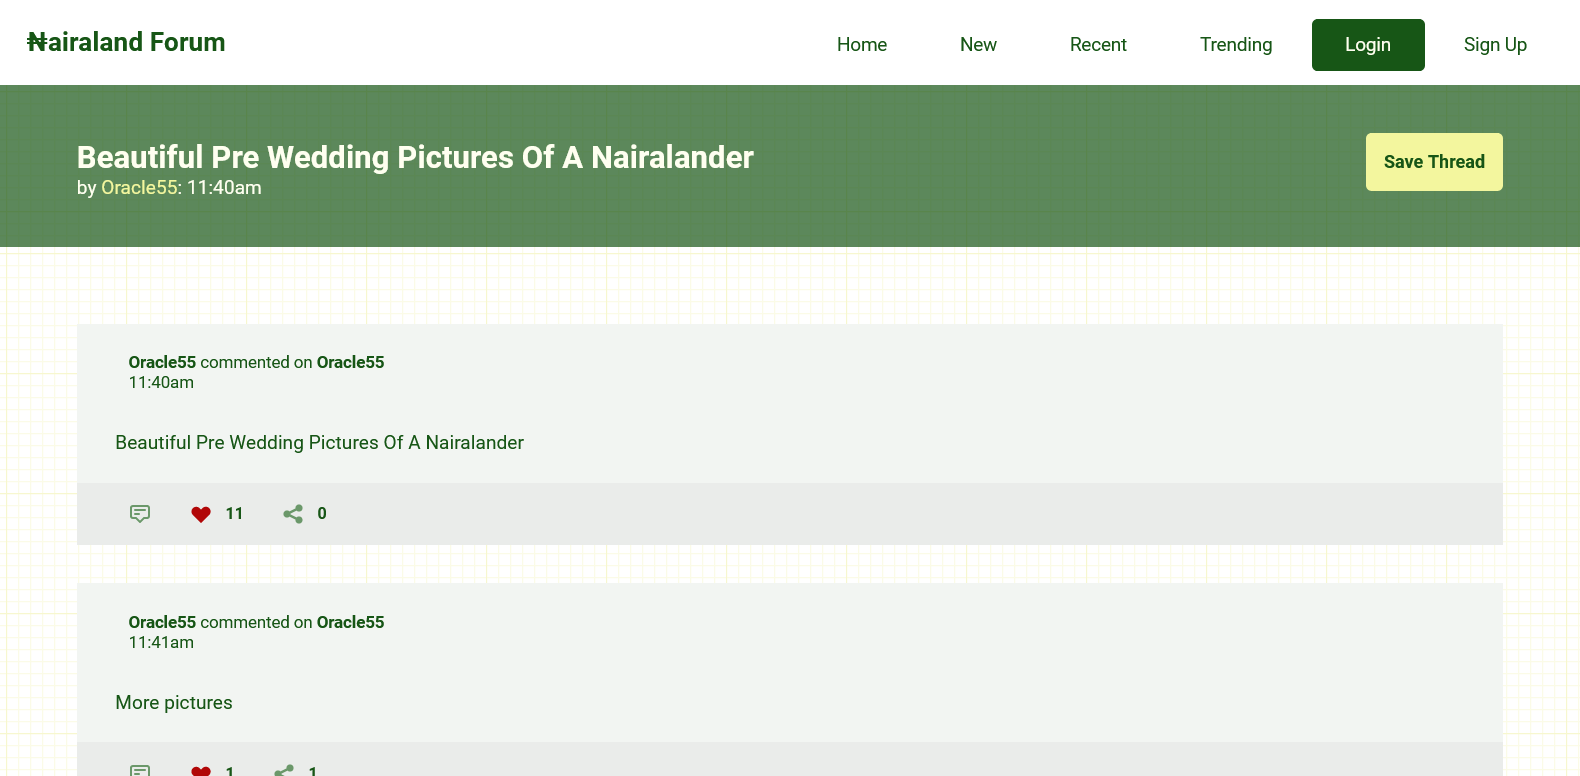
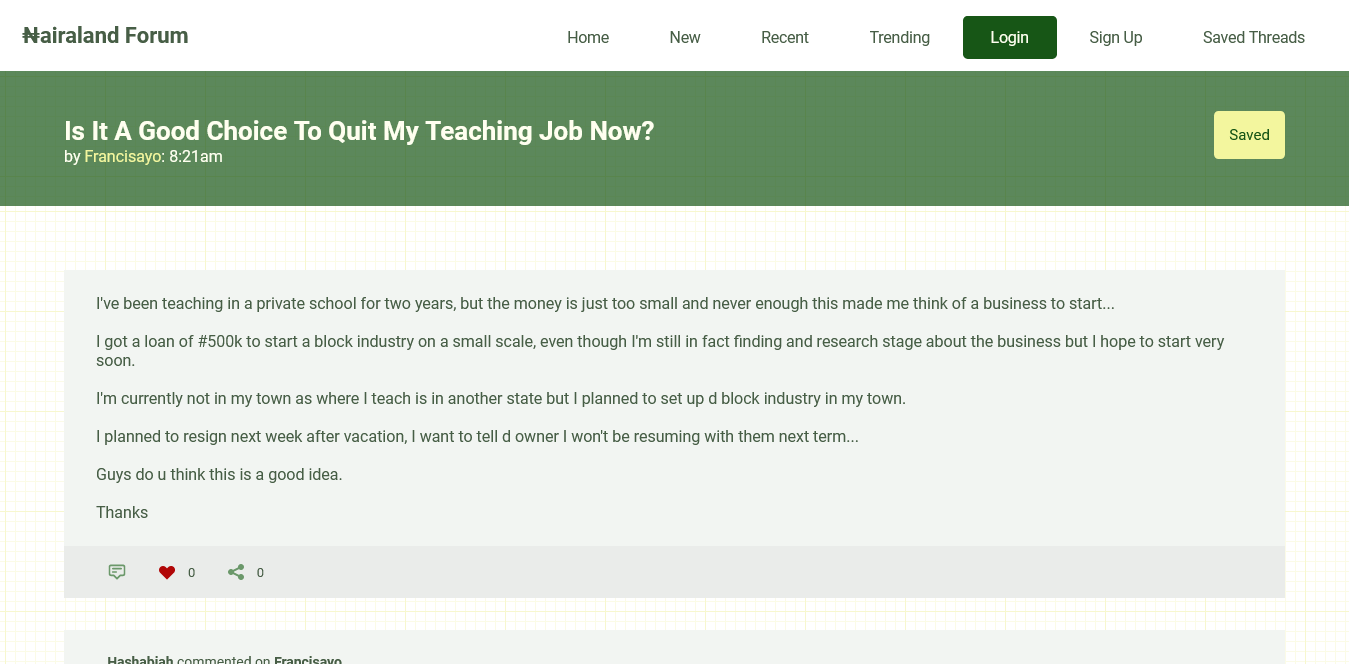
Updated README.md

diff --git a/README.md b/README.md
@@ -8,6 +8,9 @@ We have all learnt to live with [Nairaland's](https://www.nairaland.com) never-c
 ### A Thread
 ![Thread](./thread-page.png)
 
+### Saved Threads
+![Thread](./saved-threads.png)
+
 These are based on [@Ui_uxdesigner's](https://www.twitter.com/Ui_uxdesigner) designs which can be found [here](https://www.behance.net/gallery/93022789/Nairaland-Website-Redesign).
 
 
